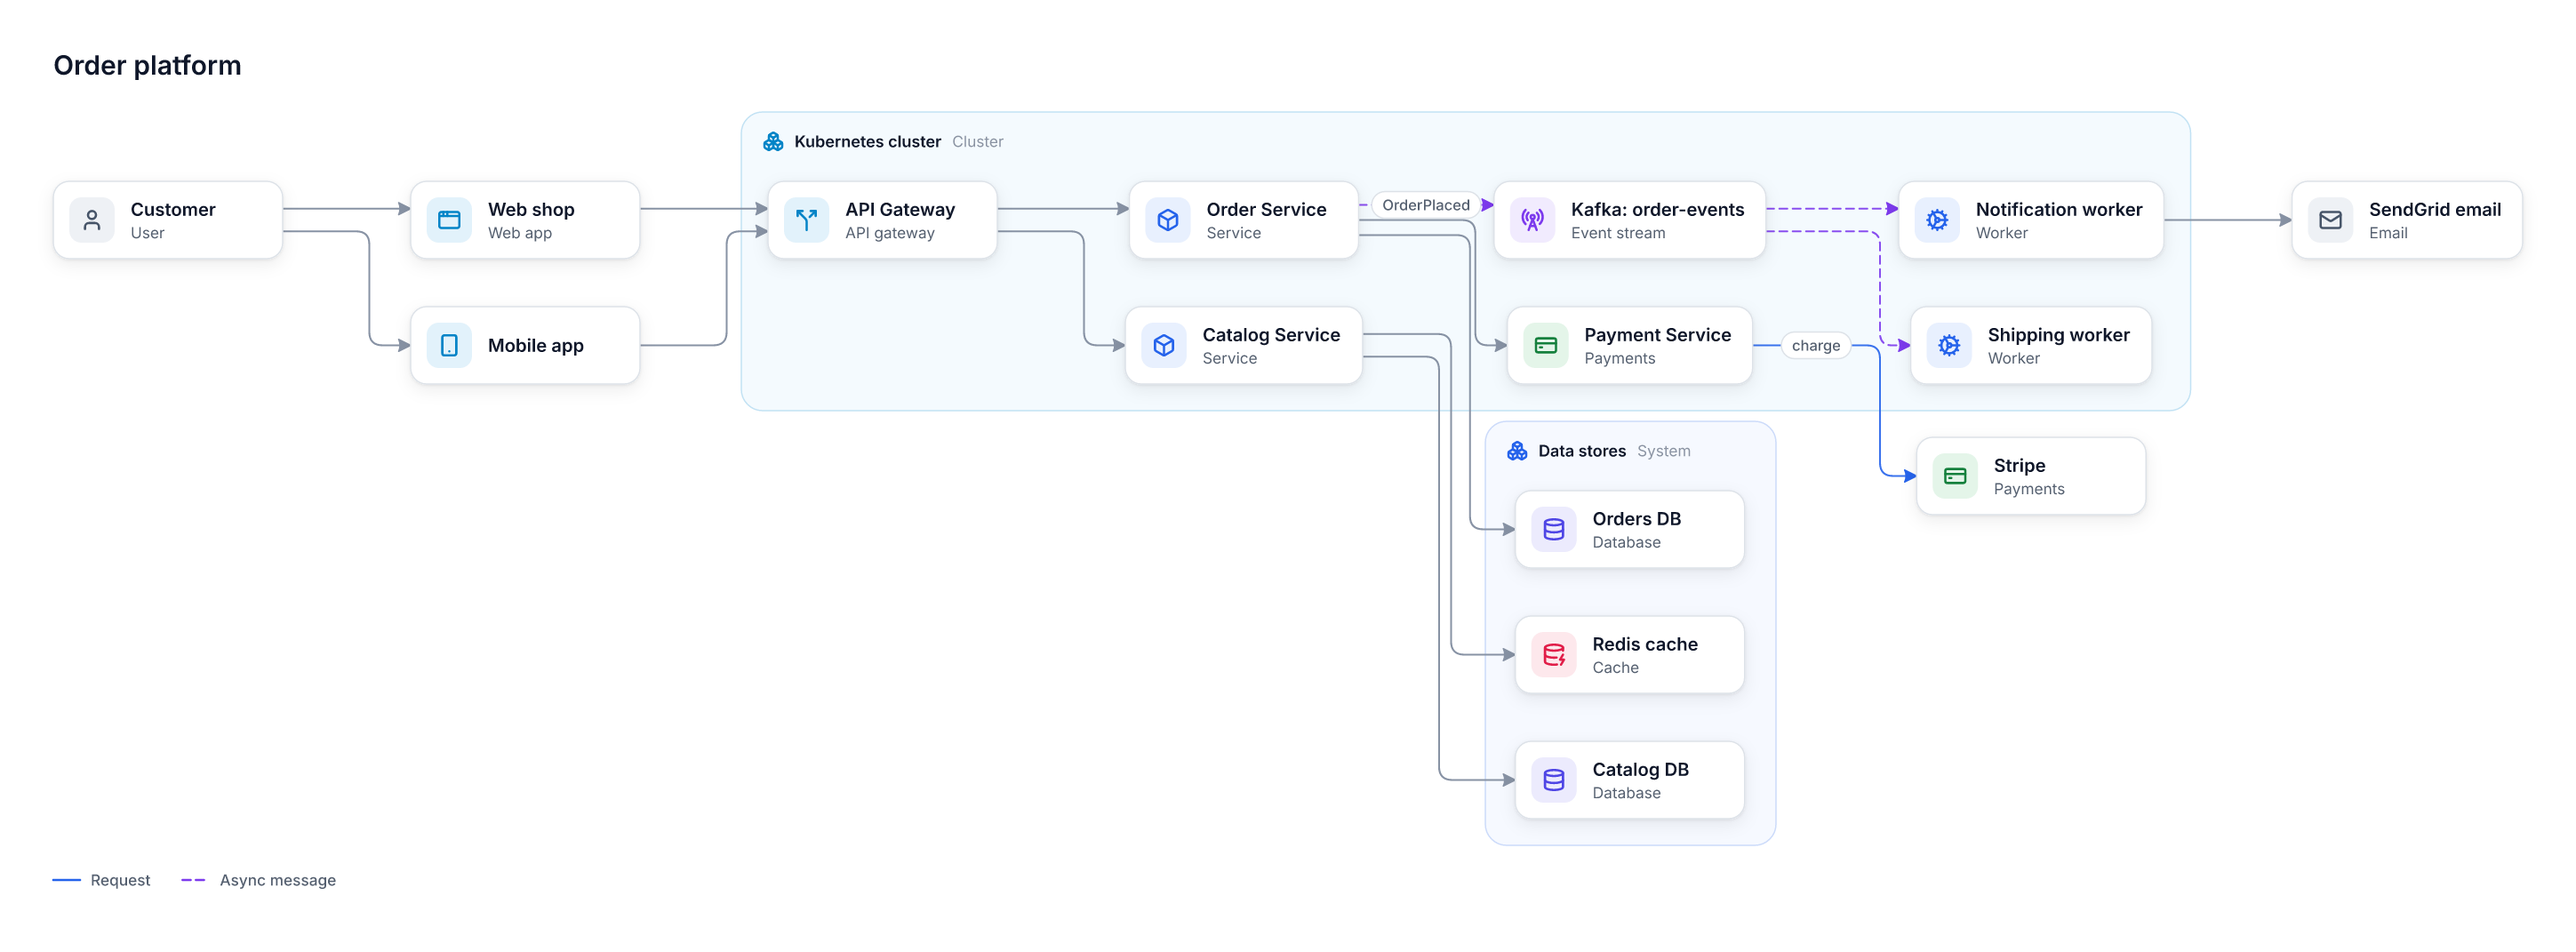
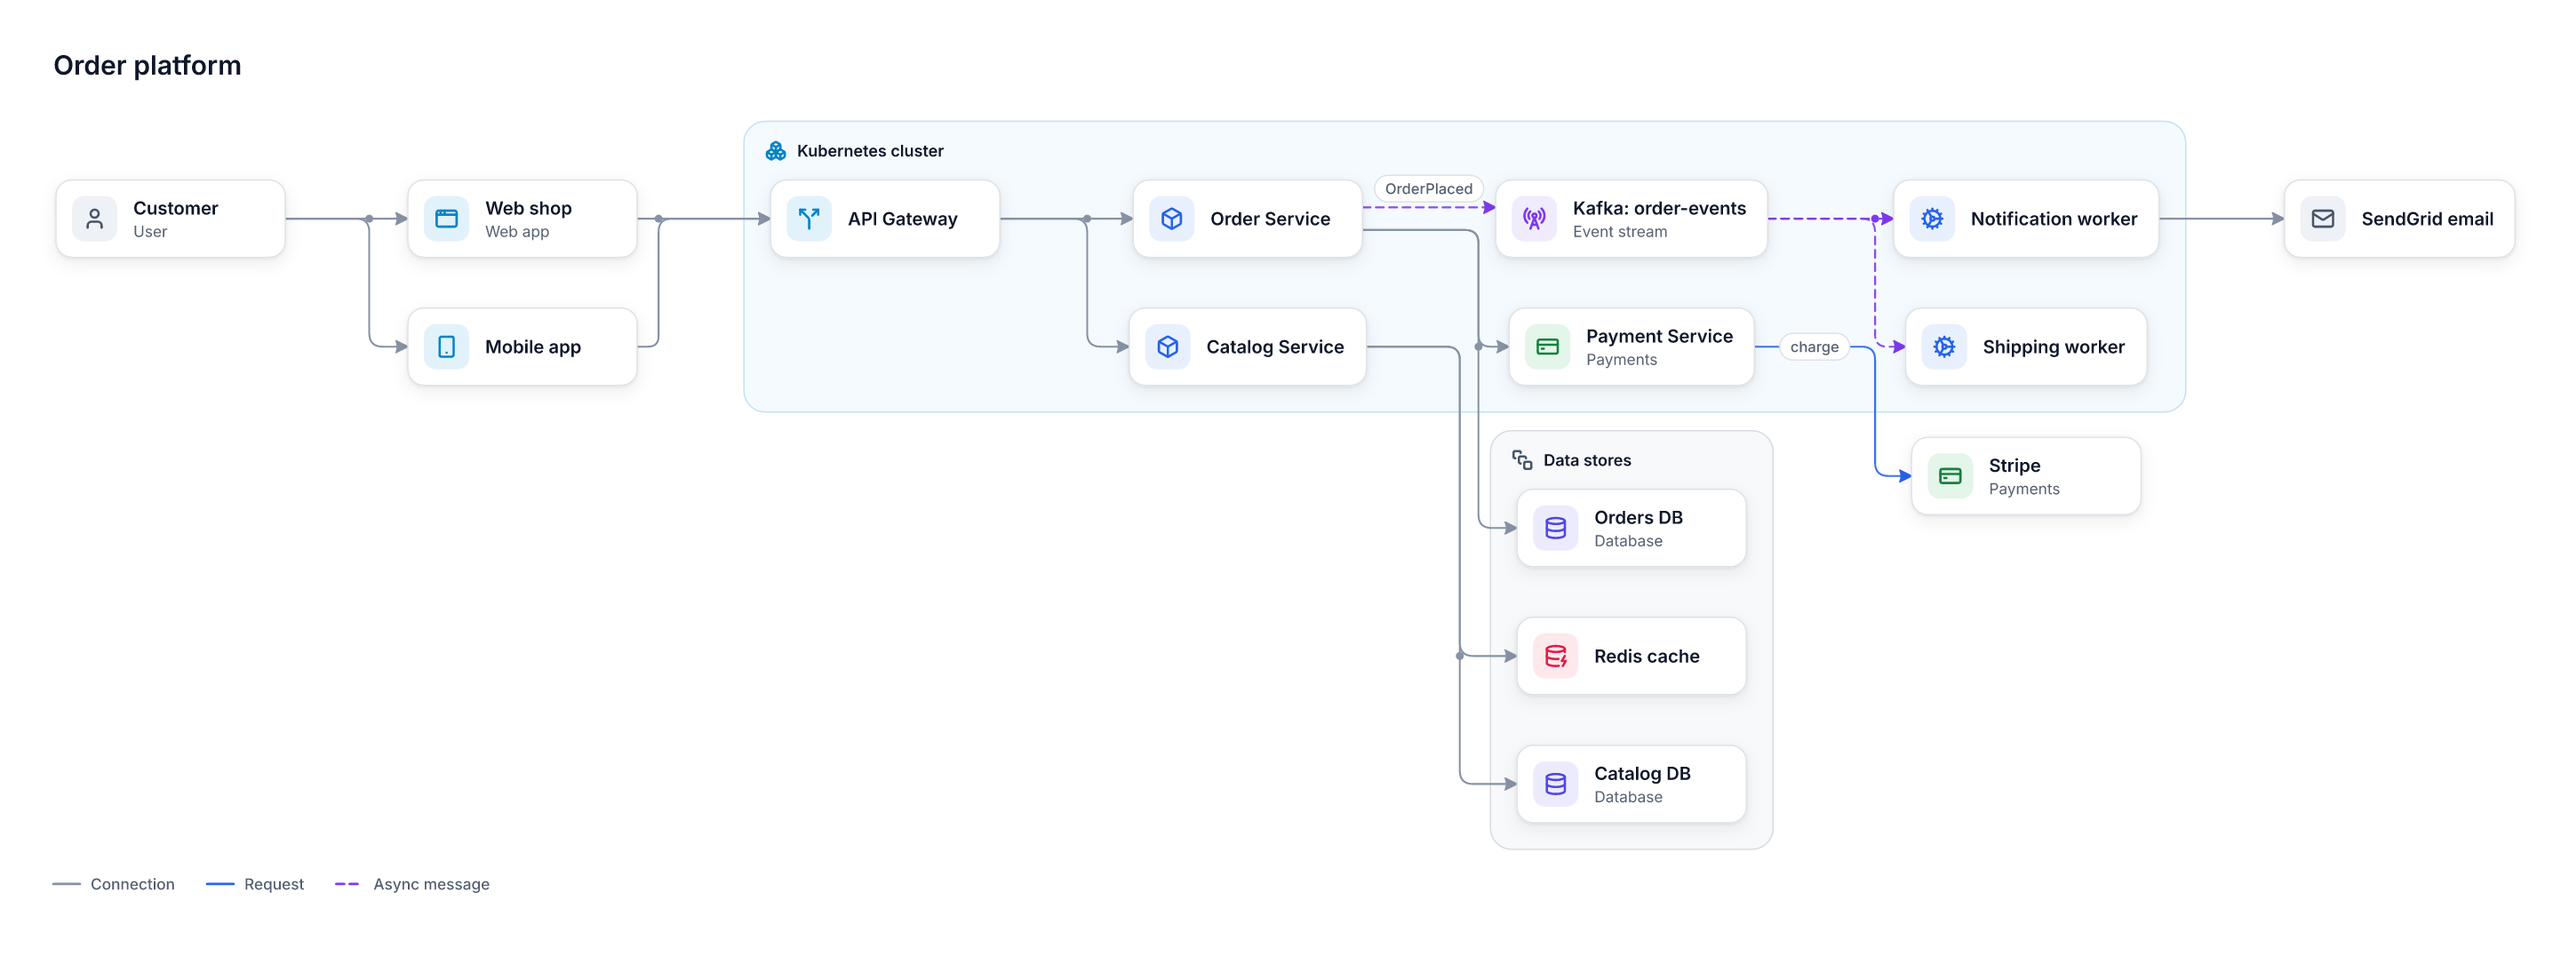
Comparison: regenerate and update the verdicts

diff --git a/docs/comparison/README.md b/docs/comparison/README.md
@@ -19,7 +19,9 @@ Regenerate everything with `pnpm compare` (needs `d2` on the PATH for the D2 col
 | ![Mermaid](png/microservices-mermaid.png) | ![D2](png/microservices-d2.png) | ![Cartography](png/microservices-cartography.png) |
 
 Imported as a `systems` diagram: the circle became a user, `[(…)]` databases, "Redis cache" a cache,
-"Kafka: order-events" an event stream, `-.->` async messages and `==>` the main request path.
+"Kafka: order-events" an event stream, `-.->` async messages and `==>` the main request path. Plain
+`-->` lines stay grey and the legend names them ("Connection") next to the coloured ones. Captions only
+appear where they add something: "Order Service" is not captioned "Service" again.
 
 ## Photo uploads — serverless (architecture-beta)
 
@@ -37,6 +39,10 @@ SQS resize queue a queue.
 | --- | --- | --- |
 | ![Mermaid](png/data-platform-mermaid.png) | ![D2](png/data-platform-d2.png) | ![Cartography](png/data-platform-cartography.png) |
 
+Subgraphs whose titles say nothing about what they are (Sources, Ingestion, …) become neutral groups
+without a caption. Boxes no word gives away ("Debezium CDC", "dbt transformations") are plain steps
+instead of guessed services.
+
 ## Shop schema (erDiagram)
 
 | Mermaid | D2 | Cartography |
@@ -44,7 +50,9 @@ SQS resize queue a queue.
 | ![Mermaid](png/shop-schema-mermaid.png) | ![D2](png/shop-schema-d2.png) | ![Cartography](png/shop-schema-cartography.png) |
 
 Imported as an `erd` diagram. `FK` attributes are matched to the related table (`customer_id` → customer),
-so lines attach to the column, with crow's feet from the relationship.
+so lines attach to the column, with crow's feet from the relationship. Mermaid's "one or more" (`|{`)
+keeps its bar (order_line "contains"), `PK, FK` columns show both the key and the link, and `UK` a
+unique mark. Table ids are lowercased (`ORDER` → `order`); the import says so.
 
 ## Sign-in flow (flowchart with decisions)
 
@@ -52,6 +60,9 @@ so lines attach to the column, with crow's feet from the relationship.
 | --- | --- | --- |
 | ![Mermaid](png/login-flow-mermaid.png) | ![D2](png/login-flow-d2.png) | ![Cartography](png/login-flow-cartography.png) |
 
-Cartography draws systems, not flow logic: it has no decision or start/stop shapes, so steps and
-questions all become cards, most of them captioned "Service". For process flows like this one,
-Mermaid and D2 say more.
+Questions, `{…}` and plain `{{…}}` shapes import as decisions (pointed ends, a diamond tile, an amber
+outline), `([…])` and `((…))` at the start or end of the flow as pills, and the other boxes as plain
+steps without an icon or caption. Next to Mermaid this is now a fair match: the same shapes in the
+same order, yes/no labels readable on every branch, and a slightly shorter drawing (decisions do not
+need a diamond's height). Mermaid's diamonds are still the more familiar symbol at first sight, and the
+long "yes" line from the first decision runs the whole height of the drawing in both tools.
